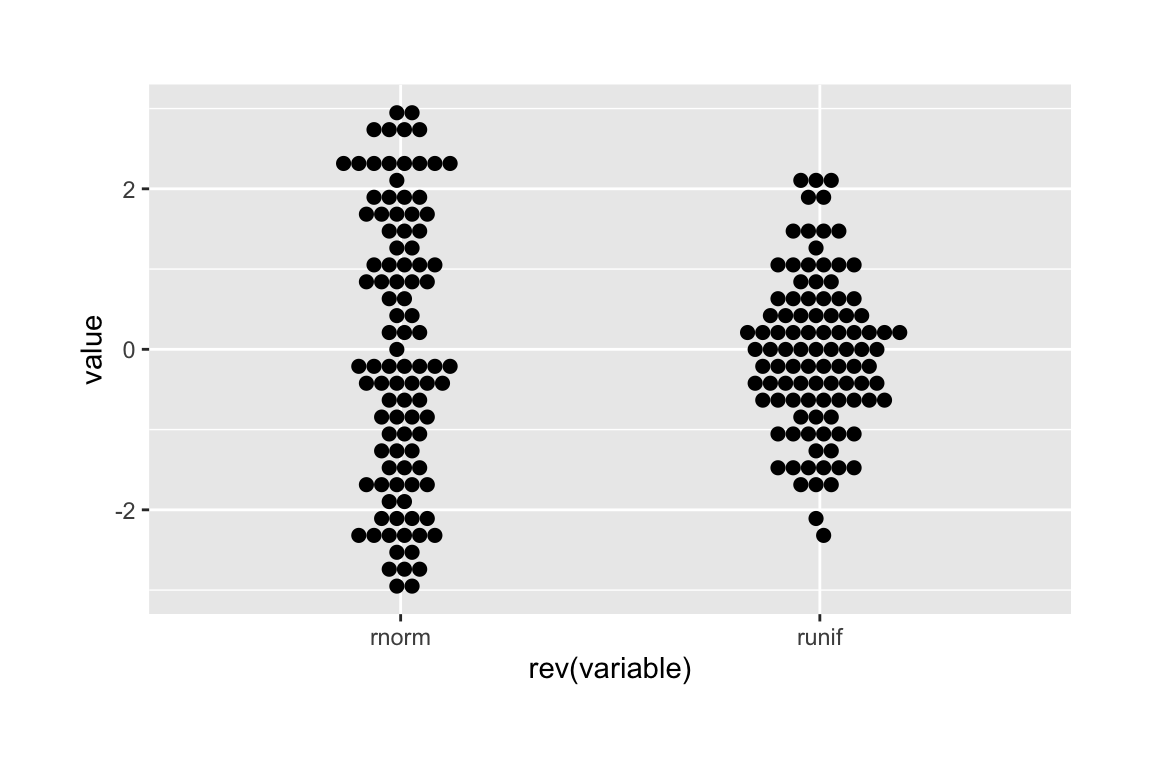
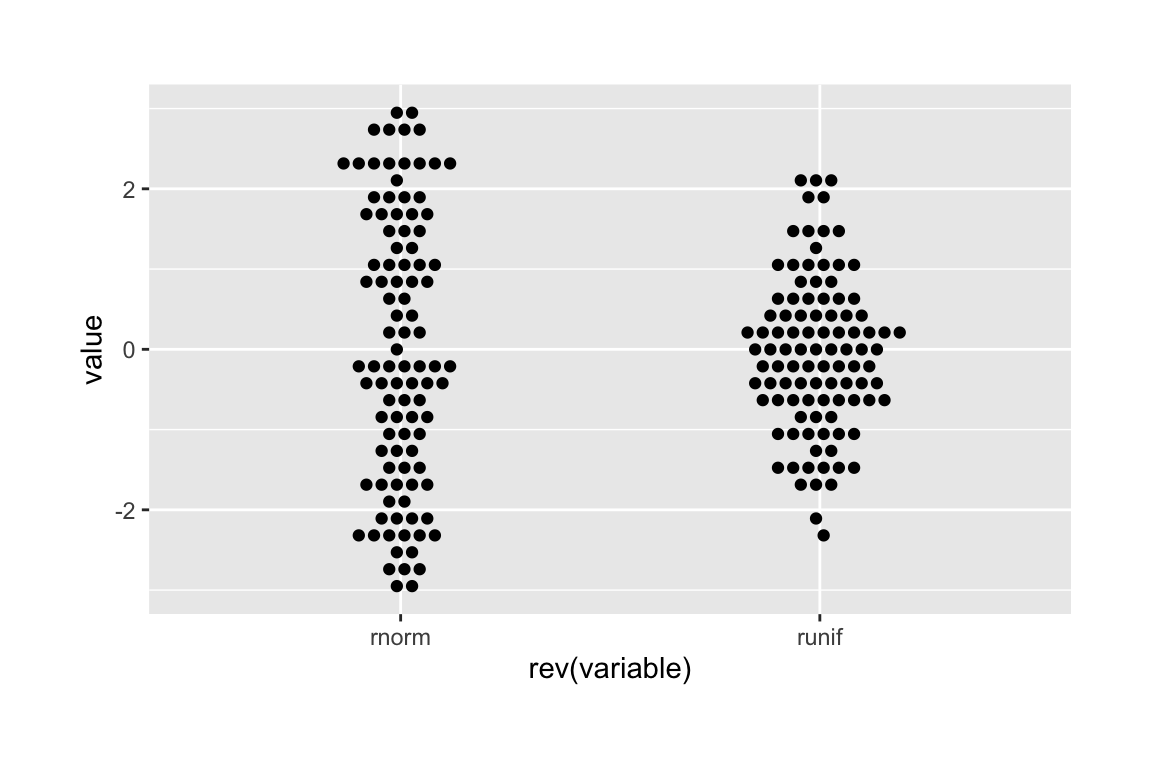
Implement other methods in StatBeeswarm

Changed region(s): [[0.2812, 0.125, 0.4062, 0.7812], [0.6562, 0.2188, 0.7812, 0.6875]]

diff --git a/README.md b/README.md
@@ -38,7 +38,7 @@ beeswarm::beeswarm(distro,
 ```r
 # ggbeeswarm2
 library(dplyr)
-library(ggplot2)
+library(ggbeeswarm)
 
 distro2 <- as.data.frame(rev(distro)) %>% 
   tidyr::pivot_longer(
@@ -48,7 +48,7 @@ distro2 <- as.data.frame(rev(distro)) %>%
     )
 
  ggplot2::ggplot(distro2, aes(x = rev(variable), y = value)) + 
-   beeswarm::stat_beeswarm(method = "hex", size = 2) + 
+   ggbeeswarm::stat_beeswarm(method = "hex") + 
    scale_y_continuous(limits = c(-3, 3)) + 
    theme(
      plot.margin = unit(c(0.11, 0.07, 0.11, 0.07), "npc")
